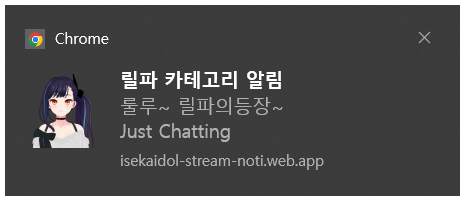
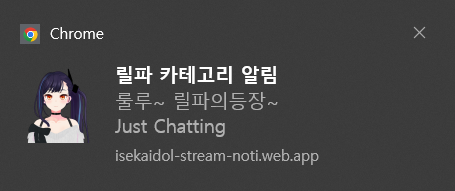
📝 Add demo images to readme

diff --git a/README.md b/README.md
@@ -16,6 +16,11 @@
   - 채널의 카테고리(게임)가 변경됨.
 - 웹 페이지에서 채널별 알림 구독 여부 설정 및 최근 정보 확인.
 
+PC:  
+![PC Noti](./res/noti.png)  
+Mobile:  
+![Mobile Noti](./res/noti2.jpg)
+
 ## 구조
 
 ```mermaid
